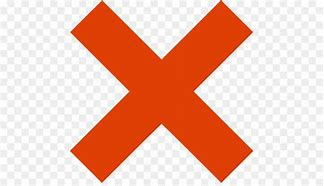
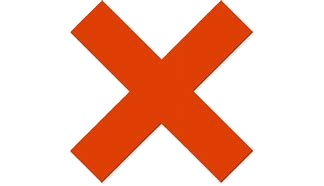
update Colors images

diff --git a/src/Games/Colors/Colors.css b/src/Games/Colors/Colors.css
@@ -69,14 +69,14 @@ body{
     font: 3rem sans-serif; 
 }
 #correct{
-    position: absolute;
+    position: center;
     color: lawngreen;
     text-shadow: 0px 0px 10px black;
     font: 3rem sans-serif; 
 }
 #checkmark, #wrong{
     pointer-events: none;
-    position: absolute;
+    position: center;
     width: 10%;
     left: 45%;
     top: 10%;
@@ -84,7 +84,7 @@ body{
 }
 @media only screen and (max-width: 600px){
     #checkmark, #wrong{
-        position: absolute;
+        position: center;
         width: 50%;
         left: 25%;
         top: 10%;

diff --git a/src/Games/Colors/Colors.php b/src/Games/Colors/Colors.php
@@ -30,7 +30,7 @@
     <span id="correct"></span>
     <span id="time"></span>
     <img src="data/Correct.png" alt="Correct" id="checkmark">
-   <img src="data/Wrong.png" alt="Wrong" id="wrong">
+   <img src="data/Wrong.jpg" alt="Wrong" id="wrong">
 
 <script src="Colors.js"></script>
 </body></html>
